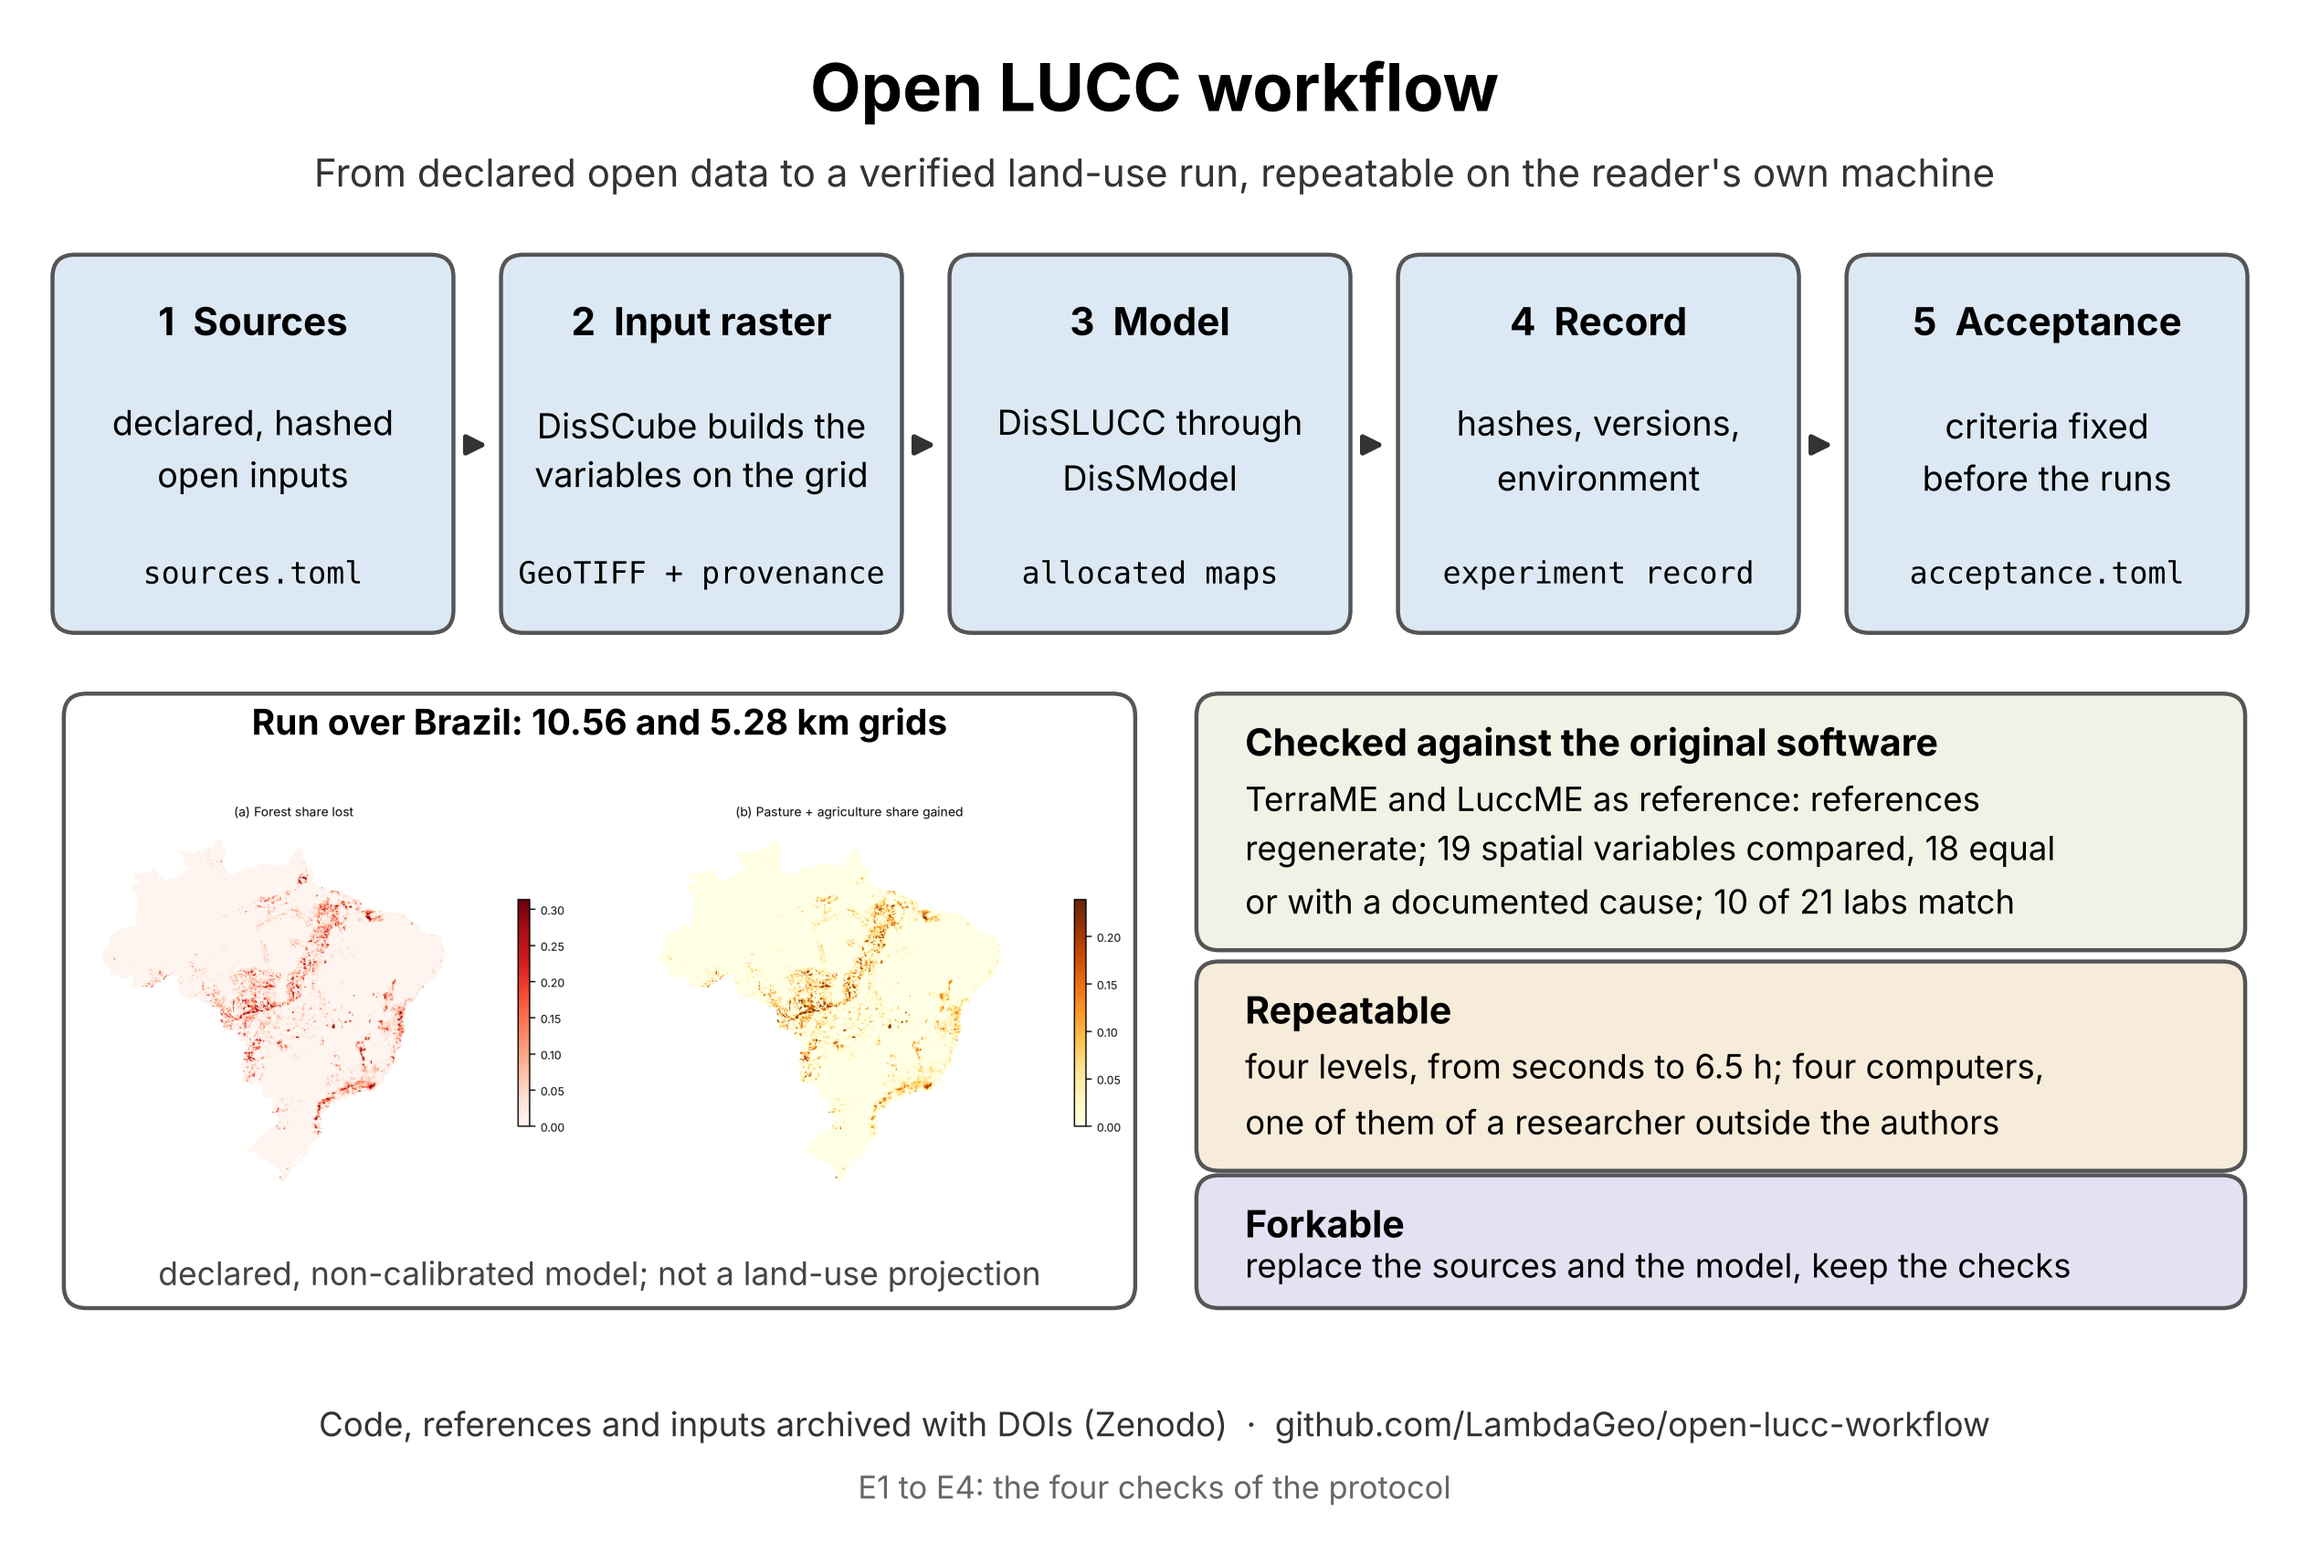
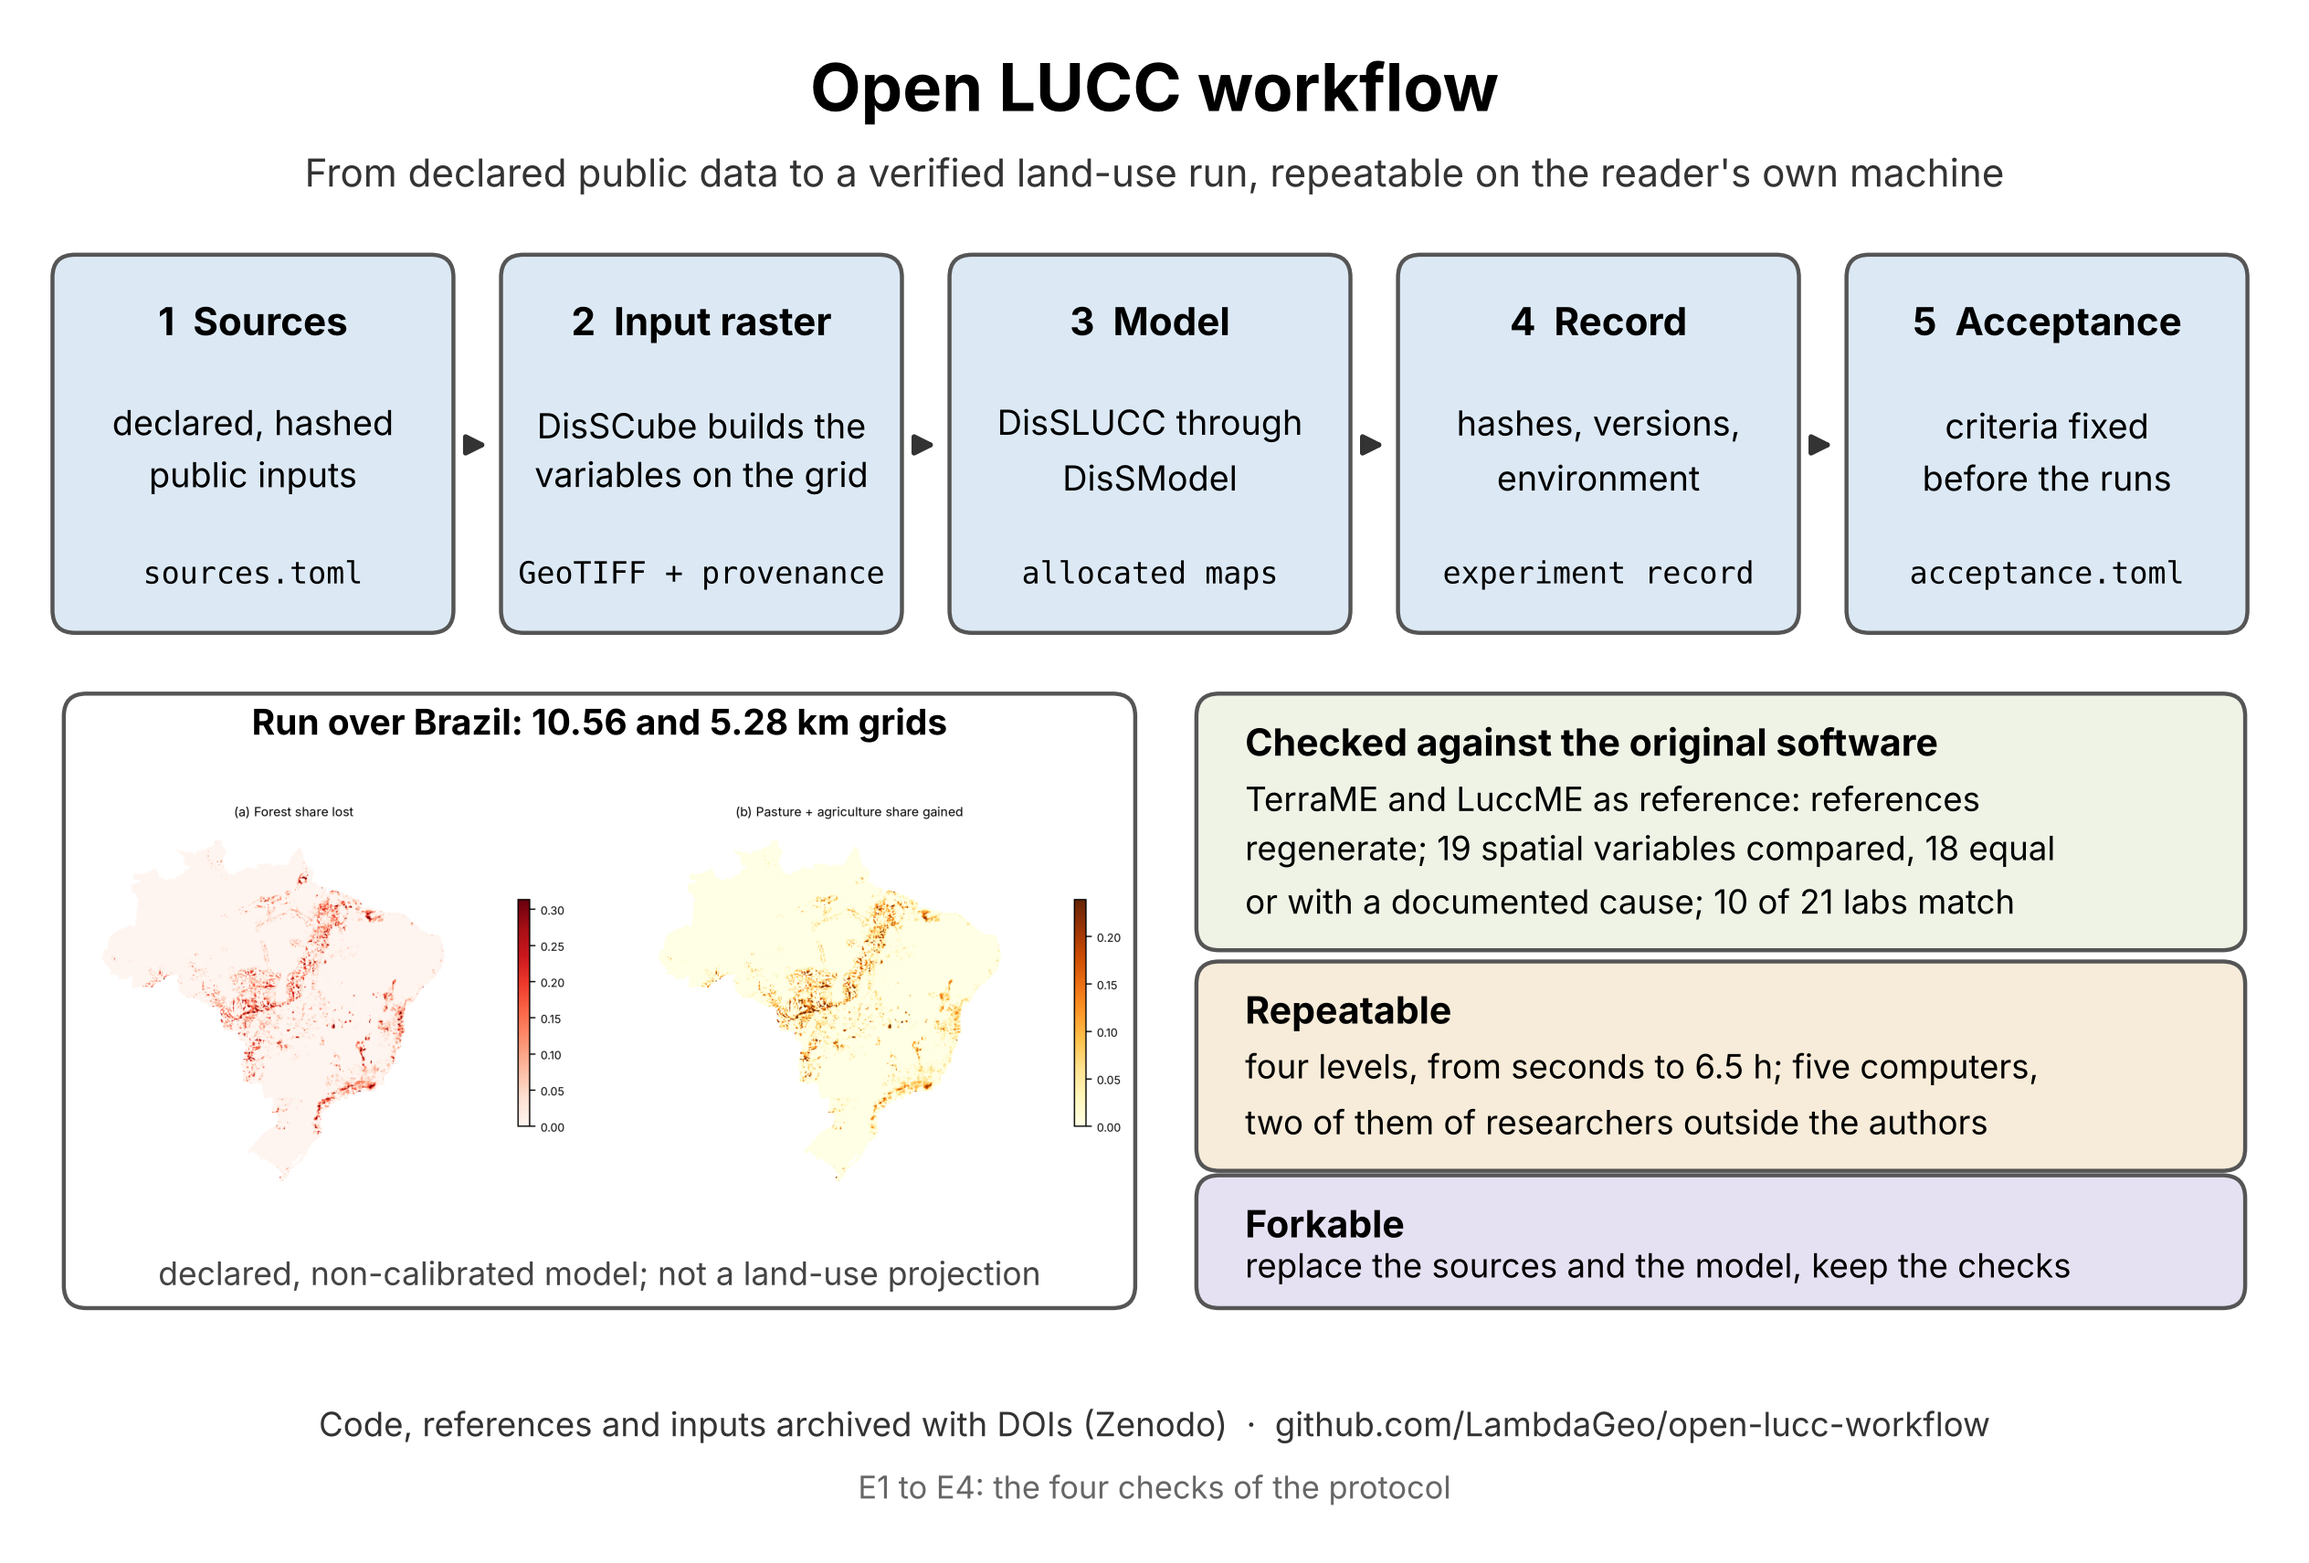
docs: explain the macOS result, add the external check scripts, updat… (#5)
* docs: explain the macOS result, add the external check scripts, update the graphical abstract

README: new section "Platforms" with the Mac (arm64) rerun of level 2: criteria
and metrics equal, file hashes different because of the compression of the
GeoTIFF, one input value out of 1,549,332 differing by one float32 ulp, and
how to read DIFFERS on other platforms.

scripts/external_check.sh runs levels 0 to 2 and collects the logs and the
machine description in one file. scripts/compare_rasters.py compares two
rasters by their decoded values. Neither is used by any reported result, and
the check of make reproduce-10k is unchanged.

docs/graphical_abstract.png: five computers, two of them of researchers outside
the authors.

Claude-Session: https://claude.ai/code/session_01S4SjCckAQ8koVsqjYipUHr

* style: fix ruff findings in compare_rasters.py

---------

Changed region(s): [[0.125, 0.0929, 0.875, 0.1239], [0.5312, 0.6815, 0.875, 0.7434], [0.0625, 0.2788, 0.1562, 0.3098]]

diff --git a/scripts/compare_rasters.py b/scripts/compare_rasters.py
@@ -1,0 +1,42 @@
+#!/usr/bin/env python
+"""Compare two GeoTIFF files by their decoded values, band by band.
+
+    python scripts/compare_rasters.py a.tif b.tif
+
+Two files can have different SHA-256 and equal values: each platform's GDAL writes
+the DEFLATE compression differently, and the bytes of the file change with it.
+This script says whether the values, the grid and the masks are the same, which
+is the question behind a DIFFERS of `make reproduce-10k` on another platform.
+"""
+import sys
+
+import numpy as np
+import rasterio
+
+if len(sys.argv) != 3:
+    sys.exit(__doc__)
+pa, pb = sys.argv[1:3]
+equal_all = True
+with rasterio.open(pa) as a, rasterio.open(pb) as b:
+    same_grid = (a.crs == b.crs and a.transform == b.transform and a.shape == b.shape and a.count == b.count)
+    print(f"crs, transform, shape and bands equal: {same_grid} ({a.count} bands, {a.shape[0]}x{a.shape[1]}, {a.dtypes[0]}/{b.dtypes[0]})")
+    if not same_grid:
+        sys.exit(1)
+    print("| band | arrays equal | NaN mask equal | cells that differ | max absolute difference | max relative difference |")
+    print("|---|---|---|---|---|---|")
+    for i in range(1, a.count + 1):
+        x, y = a.read(i).astype("f8"), b.read(i).astype("f8")
+        if a.nodata is not None:
+            x, y = np.where(x == a.nodata, np.nan, x), np.where(y == b.nodata, np.nan, y)
+        nx, ny = np.isnan(x), np.isnan(y)
+        both = ~nx & ~ny
+        d = np.abs(x[both] - y[both])
+        xv = np.abs(x[both])
+        nz = xv > 0
+        rel = d[nz] / xv[nz]
+        eq = bool(np.array_equal(x, y, equal_nan=True))
+        equal_all &= eq
+        label = a.tags(i).get("name") or a.descriptions[i - 1] or f"band{i}"
+        print(f"| {label} | {eq} | {np.array_equal(nx, ny)} | {int((d > 0).sum())} | "
+              f"{float(d.max()) if d.size else 0.0:.3g} | {float(rel.max()) if rel.size else 0.0:.3g} |")
+print("\nAll values equal." if equal_all else "\nSome values differ; see the table for how many and by how much.")

diff --git a/README.md b/README.md
@@ -53,6 +53,8 @@ cells; its results are archived in `reported/`. After `make reproduce-10k`, `OK 
 input raster and the same output bytes as the reported run. `OK ... numerically equivalent` means the same input
 raster and class areas that agree to 1e-6 of the mapped area, which can happen across operating systems or
 library builds (see Windows below); `DIFFERS` prints what differs, including the installed package versions.
+On a platform other than x86-64 Linux or WSL2, read `DIFFERS` with the section "Platforms" below before
+concluding that a run is wrong.
 
 ## Workflow stages (E4)
 Five stages, each leaving a named artifact that a check reads:
@@ -107,8 +109,45 @@ For `make full` give WSL2 enough memory (the 5.28 km model run is the heavy step
 Native Windows (PowerShell or cmd) is **not supported**: the `Makefile` calls POSIX shell commands and the
 virtual environment is looked up in `.venv/bin`. The repository sets `eol=lf` in `.gitattributes`, so a
 checkout on Windows does not change the line endings, and with them the SHA-256, of the declared files.
-Outputs were compared byte for byte only between Linux machines; on another operating system, compare
-within the numerical tolerance of `acceptance.toml`.
+
+## Platforms
+Level 2 (`make reproduce-10k`) was run on five computers. On four of them, all x86-64 (Linux and Windows with
+WSL2), the SHA-256 of the input and output rasters are those of the reported run and the command prints
+`OK ... identical`. The fifth was a Mac with an Apple M3 processor (arm64, macOS 26.5.1, Python 3.13.5), run by
+a researcher outside the authors. All four acceptance criteria passed there, and the iteration counts of the 14
+allocations, the largest error of each year and the final area of the seven classes were equal to those of the
+reported run, but the command printed `DIFFERS`, because the checksums of the two GeoTIFF files differ. A
+cell-by-cell comparison with a run on Linux showed that:
+
+- the values of the output raster are equal in every cell and band; the bytes differ because each platform's
+  GDAL writes the DEFLATE compression differently (the strips are identical once decompressed);
+- the input raster differs in one value out of 1,549,332 (about 1.8e-12, one unit in the last place of a
+  32-bit float), which changes its checksum and, with it, that of the output;
+- before the conversion to 32 bits, the raw raster (64 bits) differs in about 47% of its values by floating-point
+  noise (at most 3.1e-12 in the shares and 5.3e-8 m in the distances), with equal masks. We did not collect the
+  versions of GDAL, GEOS and PROJ on the two platforms, so we do not know which library produces it.
+
+So `DIFFERS` on a platform other than x86-64 Linux or WSL2 does not by itself mean that the run is wrong.
+Compare the iteration counts, the largest error per year and the class areas in the log with
+`reported/v1.1.0`, and, if you have the two rasters, compare their values:
+
+```bash
+python scripts/compare_rasters.py runs/br_10km/<output>.tif other_computer/<output>.tif
+```
+
+The check of `make reproduce-10k` compares hashes of files, not of values, and we kept it that way so that
+the released record stays as it was archived. To repeat levels 0 to 2 on your own computer and collect the
+logs, the machine description and the package versions in one file that you can send to us, run
+`scripts/external_check.sh` in an empty folder (Linux, WSL2 or macOS).
+
+**On a Mac:** the commands are the same (Python 3.11 or newer, for example `brew install python@3.12` and
+`make env PYTHON=python3.12`; `make` and `git` come with the Xcode command-line tools). Levels 0 and 1 pass, and
+level 2 is expected to end with `DIFFERS`. Read it as different bytes in the files, not as a failed run: compare
+`runs/br_10km/metrics.json` with `reported/v1.1.0/metrics_br_10km.json` (iterations, largest error per year and
+class areas) and, to compare values, the rasters with `scripts/compare_rasters.py`.
+
+On macOS older than 15, `pip` may not find a binary wheel of `rasterio` for Apple Silicon and try to build it,
+which needs GDAL installed on the system; this was not tested here.
 
 ## Cite
 Costa, S. S., Bezerra, D. da S., & Alves, J. M. P. (2026). *Open LUCC workflow: traceable land-use change modelling from open data* (Version v1.1.0) [Computer software]. Zenodo. https://doi.org/10.5281/zenodo.23415814
@@ -117,6 +156,6 @@ Costa, S. S., Bezerra, D. da S., & Alves, J. M. P. (2026). *Open LUCC workflow: 
 The source code is under the MIT licence (`LICENSE`). The results, metrics, reports and run records that the repository produces or stores are under CC BY 4.0, to the extent of our rights (`LICENSE-DATA`). The input layers are not ours: each follows the terms of its source (`docs/DATA.md`). The copies of three layers in the GitHub release `data-preview` keep the terms of their sources. This is not legal advice.
 
 ## Status
-`make small` and `make full` have been run (Linux, Python 3.12.3). `make full` took 6 h 31 min: the 5.28 km model run took
+`make small` and `make full` have been run (Linux, Python 3.12.3); `make reproduce-10k` was repeated on four more computers, one of them a Mac (see Platforms). `make full` took 6 h 31 min: the 5.28 km model run took
 173 min (794 MB) and the 10.56 km run 36 min (384 MB). The three acceptance checks pass; the hashes of the input rasters and of
 the outputs are in `docs/VERSIONS.md`, and the record is in `reported/v1.1.0`.
